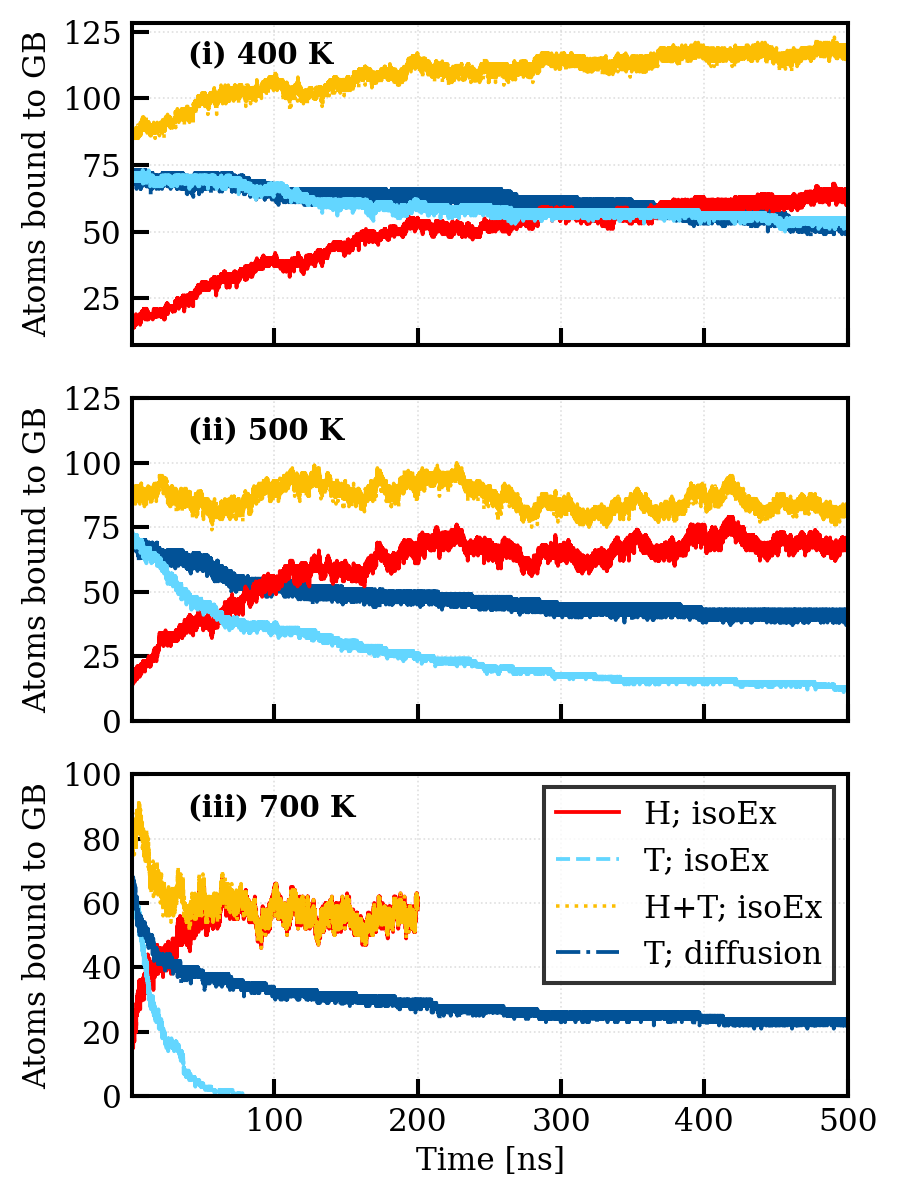
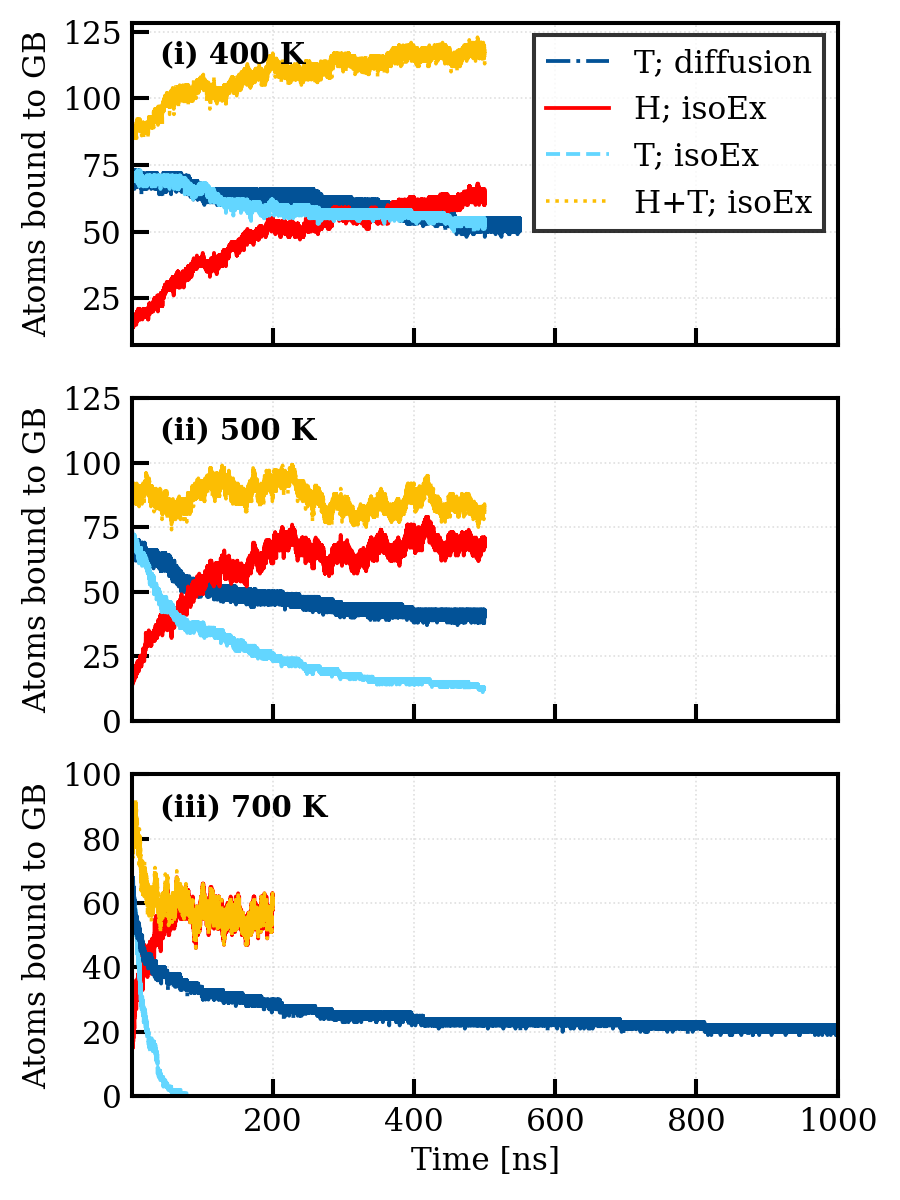
fix xlim of GB plots

diff --git a/plotting-scripts/plot_GB_isoEx_comp.py b/plotting-scripts/plot_GB_isoEx_comp.py
@@ -33,7 +33,7 @@ print('Drawing figures ...')
 fsize = [6.0, 8.0]
 
 # Upper x-axis limit
-xulim = 500.0
+xulim = 1000.0
 
 # axis labels
 ylbl = 'Atoms bound to GB'
@@ -57,6 +57,8 @@ plotter(tTH_isoEx_400K[init:final:step, 0], tTH_isoEx_400K[init:final:step,1]+tT
 plt.xlim((1, xulim))
 plt.ylabel(ylbl)
 plt.text(40, 113, '(i) 400 K', font)
+leg = plt.legend(loc='upper right', bbox_to_anchor=(0.999, 0.999), framealpha=0.8)
+leg.get_frame().set_linewidth(1.5*pltm)  # Legend bow linewidth 
 plt.gca().axes.get_xaxis().set_ticklabels([]) # Hide x-axis tick labels
 
 # 500 K
@@ -81,8 +83,6 @@ plt.xlim((1, xulim))
 plt.ylim((0, 100))
 plt.xlabel(xlbl)
 plt.ylabel(ylbl)
-leg = plt.legend(loc='upper right', bbox_to_anchor=(0.999, 0.999), framealpha=0.8)
-leg.get_frame().set_linewidth(1.5*pltm)  # Legend bow linewidth 
 plt.text(40, 87, '(iii) 700 K', font)
 
 # Show & save figure
